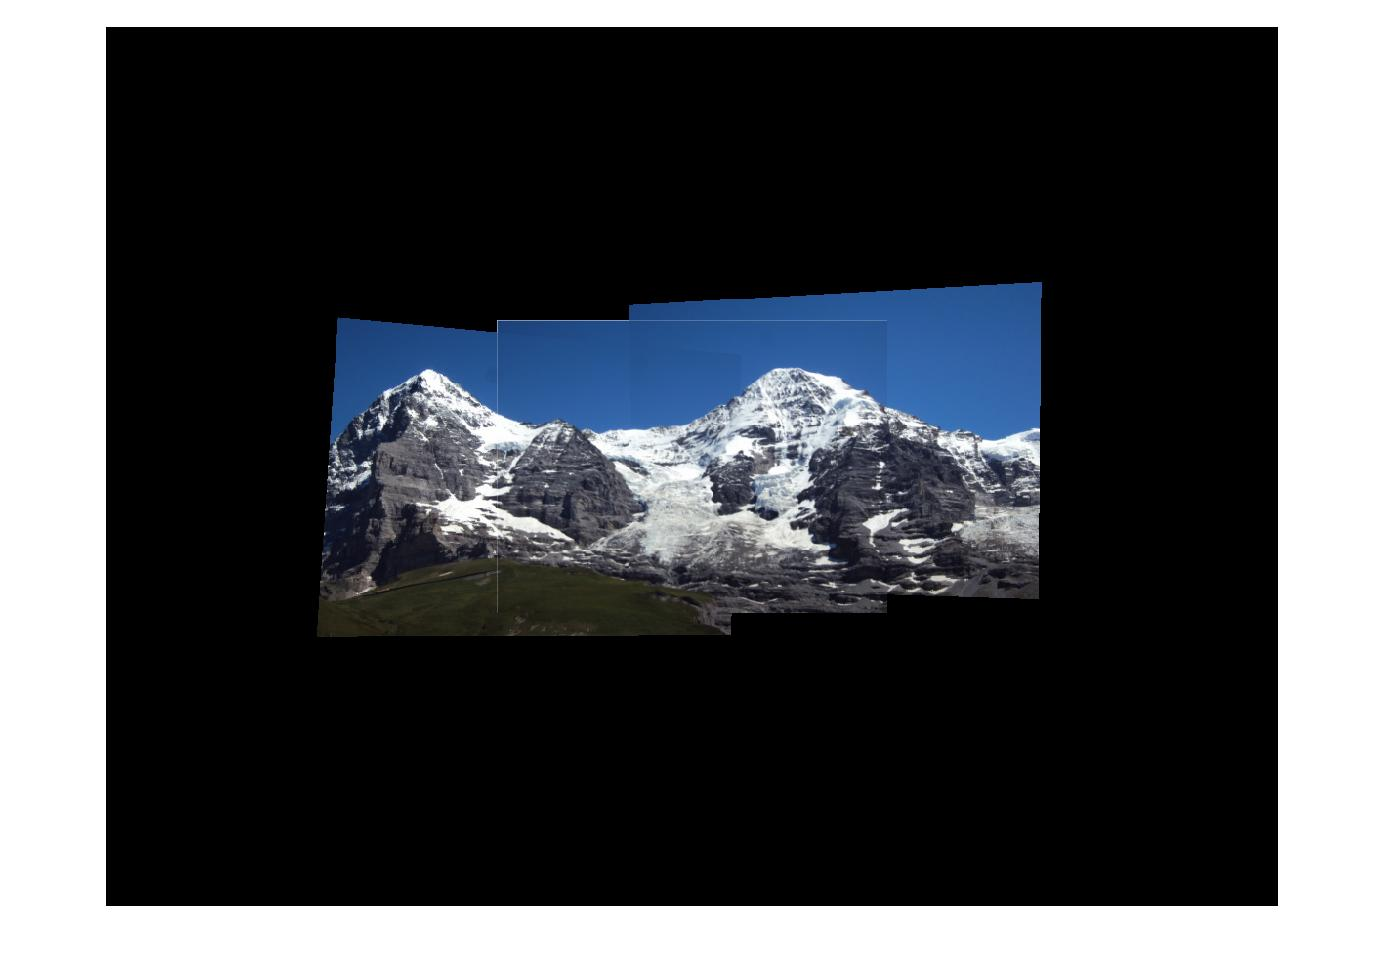
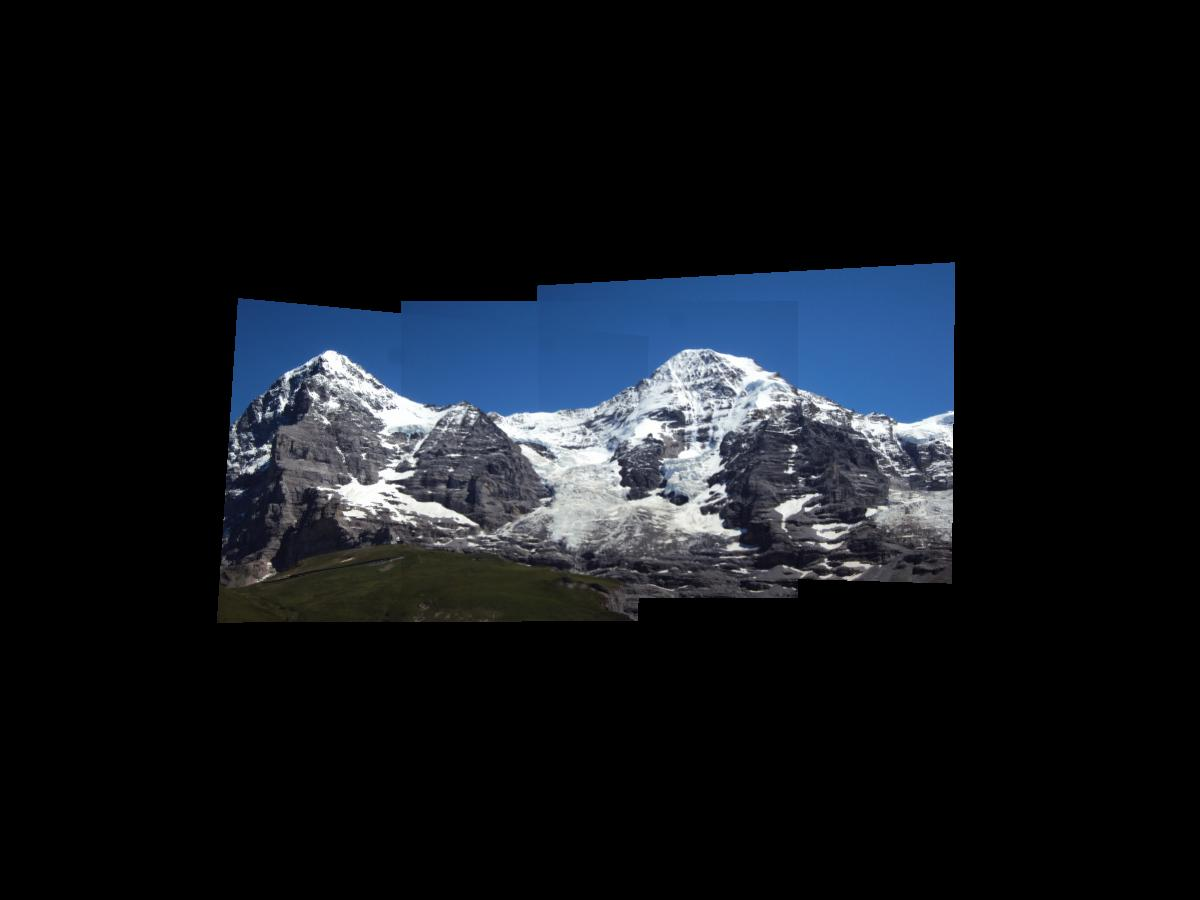
Q4 Complete

diff --git a/assignment_2/Q4/code/myMainScript.m b/assignment_2/Q4/code/myMainScript.m
@@ -3,71 +3,79 @@
 tic;
 %% Your code here
 
-% Parameters ('thresh' value):
-% Ledge => thresh = 2;
-% Hill => thresh = 0.2;
-% Monument
-% Pier => 
+% Firstly, the second image is set as base image
+% We then find homography using RANSAC between feature points of the first and second
+% image, and the third and second images (if num_images = 3).
+% Once these are obtained image warping is done on a plane image by inverse
+% mapping from I1 and I3 (possibly), and RGB values are averaged in points of overlap,
+% leaving all other points as zero to construct the final image.
 
-num_images = 3;
+% Uncomment required task below:
+% task = 'hill'; num_images = 3; thresh = 0.2;
+task = 'ledge'; num_images = 3; thresh = 2;
+% task = 'pier'; num_images = 3; thresh = 1;
+% task = 'monument'; num_images = 2; thresh = 2;
+% task = 'ground'; num_images = 3; thresh = 5;
+% task = 'room'; num_images = 3; thresh = 5;
 
-rgb1 = im2double(imread('../input/hill/1.JPG'));
-rgb2 = im2double(imread('../input/hill/2.JPG'));
-rgb3 = im2double(imread('../input/hill/3.JPG'));
-
-thresh = 1;
+rgb1 = im2double(imread(strcat('../input/',task,'/1.JPG')));
+rgb2 = im2double(imread(strcat('../input/',task,'/2.JPG')));
 
 img1 = rgb2gray(rgb1);
 img2 = rgb2gray(rgb2);
-img3 = rgb2gray(rgb3);
-
-p1 = detectSURFFeatures(img1);
-p2 = detectSURFFeatures(img2);
-p3 = detectSURFFeatures(img3);
-
-[f1,v1] = extractFeatures(img1,p1);
-[f2,v2] = extractFeatures(img2,p2);
-[f3,v3] = extractFeatures(img3,p3);
-
-indexPairs1 = matchFeatures(f1,f2);
-indexPairs2 = matchFeatures(f2,f3);
-indexPairs3 = matchFeatures(f1,f3);
-
-mp1_1 = v1(indexPairs1(:,1));
-mp2_1 = v2(indexPairs1(:,2));
-
-mp2_2 = v2(indexPairs2(:,1));
-mp3_2 = v3(indexPairs2(:,2));
-
-mp1_3 = v1(indexPairs3(:,1));
-mp3_3 = v3(indexPairs3(:,2));
-
-H1 = ransacHomography(mp2_1.Location,mp1_1.Location,thresh);
-H2 = ransacHomography(mp2_2.Location,mp3_2.Location,thresh);
 
 [h,w] = size(img1);
 output_img = zeros(3*h,3*w,3);
 
-for i = 1:3*h
-    for j = 1:3*w
+p1 = detectSURFFeatures(img1);
+p2 = detectSURFFeatures(img2);
+
+[f1,v1] = extractFeatures(img1,p1);
+[f2,v2] = extractFeatures(img2,p2);
+
+indexPairs1 = matchFeatures(f1,f2);
+mp1_1 = v1(indexPairs1(:,1));
+mp2_1 = v2(indexPairs1(:,2));
+
+H1 = ransacHomography(mp2_1.Location,mp1_1.Location,thresh);
+
+if num_images == 3
+    rgb3 = im2double(imread(strcat('../input/',task,'/3.JPG')));
+    img3 = rgb2gray(rgb3);
+    
+    p3 = detectSURFFeatures(img3);
+    [f3,v3] = extractFeatures(img3,p3);
+    indexPairs2 = matchFeatures(f2,f3);
+
+    mp2_2 = v2(indexPairs2(:,1));
+    mp3_2 = v3(indexPairs2(:,2));
+    H2 = ransacHomography(mp2_2.Location,mp3_2.Location,thresh);
+end
+
+for i = 1:size(output_img,1)
+    for j = 1:size(output_img,2)
         res2 = [i-h j-w 1]';
         res1 = H1\res2;
-        res1 = res1/res1(3);
-        res3 = H2\res2;
-        res3 = res3/res3(3);
+        res1 = res1/res1(3);    
         cnt = 0;
-        if res1(1)>=1 && res1(2)>=1 && res1(1)<=h && res1(2)<=w
+        if res1(1)>=2 && res1(2)>=2 && res1(1)<=h-2 && res1(2)<=w-2
             output_img(i,j,:) = output_img(i,j,:)+rgb1(ceil(res1(1)),ceil(res1(2)),:);
             cnt = cnt + 1;
         end    
-        if res2(1)>=1 && res2(2)>=1 && res2(1)<=h && res2(2)<=w
+        if res2(1)>=2 && res2(2)>=2 && res2(1)<=h-2 && res2(2)<=w-2
             output_img(i,j,:) = output_img(i,j,:)+rgb2(ceil(res2(1)),ceil(res2(2)),:);
             cnt = cnt + 1;
-        end    
-        if res3(1)>=1 && res3(2)>=1 && res3(1)<=h && res3(2)<=w
-            output_img(i,j,:) = output_img(i,j,:)+rgb3(ceil(res3(1)),ceil(res3(2)),:);
-            cnt = cnt + 1;
         end
+        
+        if num_images == 3
+            res3 = H2\res2;
+            res3 = res3/res3(3);
+            if res3(1)>=2 && res3(2)>=2 && res3(1)<=h-2 && res3(2)<=w-2
+                output_img(i,j,:) = output_img(i,j,:)+rgb3(ceil(res3(1)),ceil(res3(2)),:);
+                cnt = cnt + 1;
+            end
+        end
+        
         if cnt > 0
             output_img(i,j,:) = output_img(i,j,:)/cnt;
         end    
@@ -75,17 +83,7 @@ for i = 1:3*h
 end    
 
 figure, imshow(output_img);
-
-
-
-% figure; showMatchedFeatures(img1,img2,mp1_1,mp2_1);
-% legend('matched points 1','matched points 2');
-% 
-% figure; showMatchedFeatures(img2,img3,mp2_2,mp3_2);
-% legend('matched points 2','matched points 3');
-% 
-% figure; showMatchedFeatures(img1,img3,mp1_3,mp3_3);
-% legend('matched points 1','matched points 3');
+imwrite(output_img,strcat('../output/',task,'.jpg'));
 
 toc;
 

diff --git a/assignment_2/Q4/code/ransacHomography.m b/assignment_2/Q4/code/ransacHomography.m
@@ -1,11 +1,17 @@
 function [ H ] = ransacHomography( x1, x2, thresh )
-%RANSACHOMOGRAPHY Summary of this function goes here
-%   Detailed explanation goes here
+%RANSACHOMOGRAPHY Performs Random Sample Consensus among given sets of
+%points for a known threshold
+%   The location vectors obtained through SURF are (w,h) instead of (h,w)
+%   so first they are reversed. Then the number of iterations is set to
+%   10000 and on each iteration we randomly select 4 points which are
+%   enough to determine homography and pick those which yield maximum size of the consensus set.
+%   Then given the consensus set, we reconstruct and return the computed
+%   homography.
     x1 = x1(:,2:-1:1);
     x2 = x2(:,2:-1:1);
     n = size(x1,1);
-    disp(size(x1));
-    S = 1000;
+%     disp(size(x1));
+    S = 10000;
     best = 0;
     vec = 1:4;
     for iter = 1:S
@@ -39,8 +45,8 @@ function [ H ] = ransacHomography( x1, x2, thresh )
             cnt = cnt + 1;
         end    
     end
-    disp(size(consensus_set));
+%     disp(size(consensus_set));
     H = homography(x1(consensus_set,:),x2(consensus_set,:));
-    disp(H);
+%     disp(H);
 end
 
